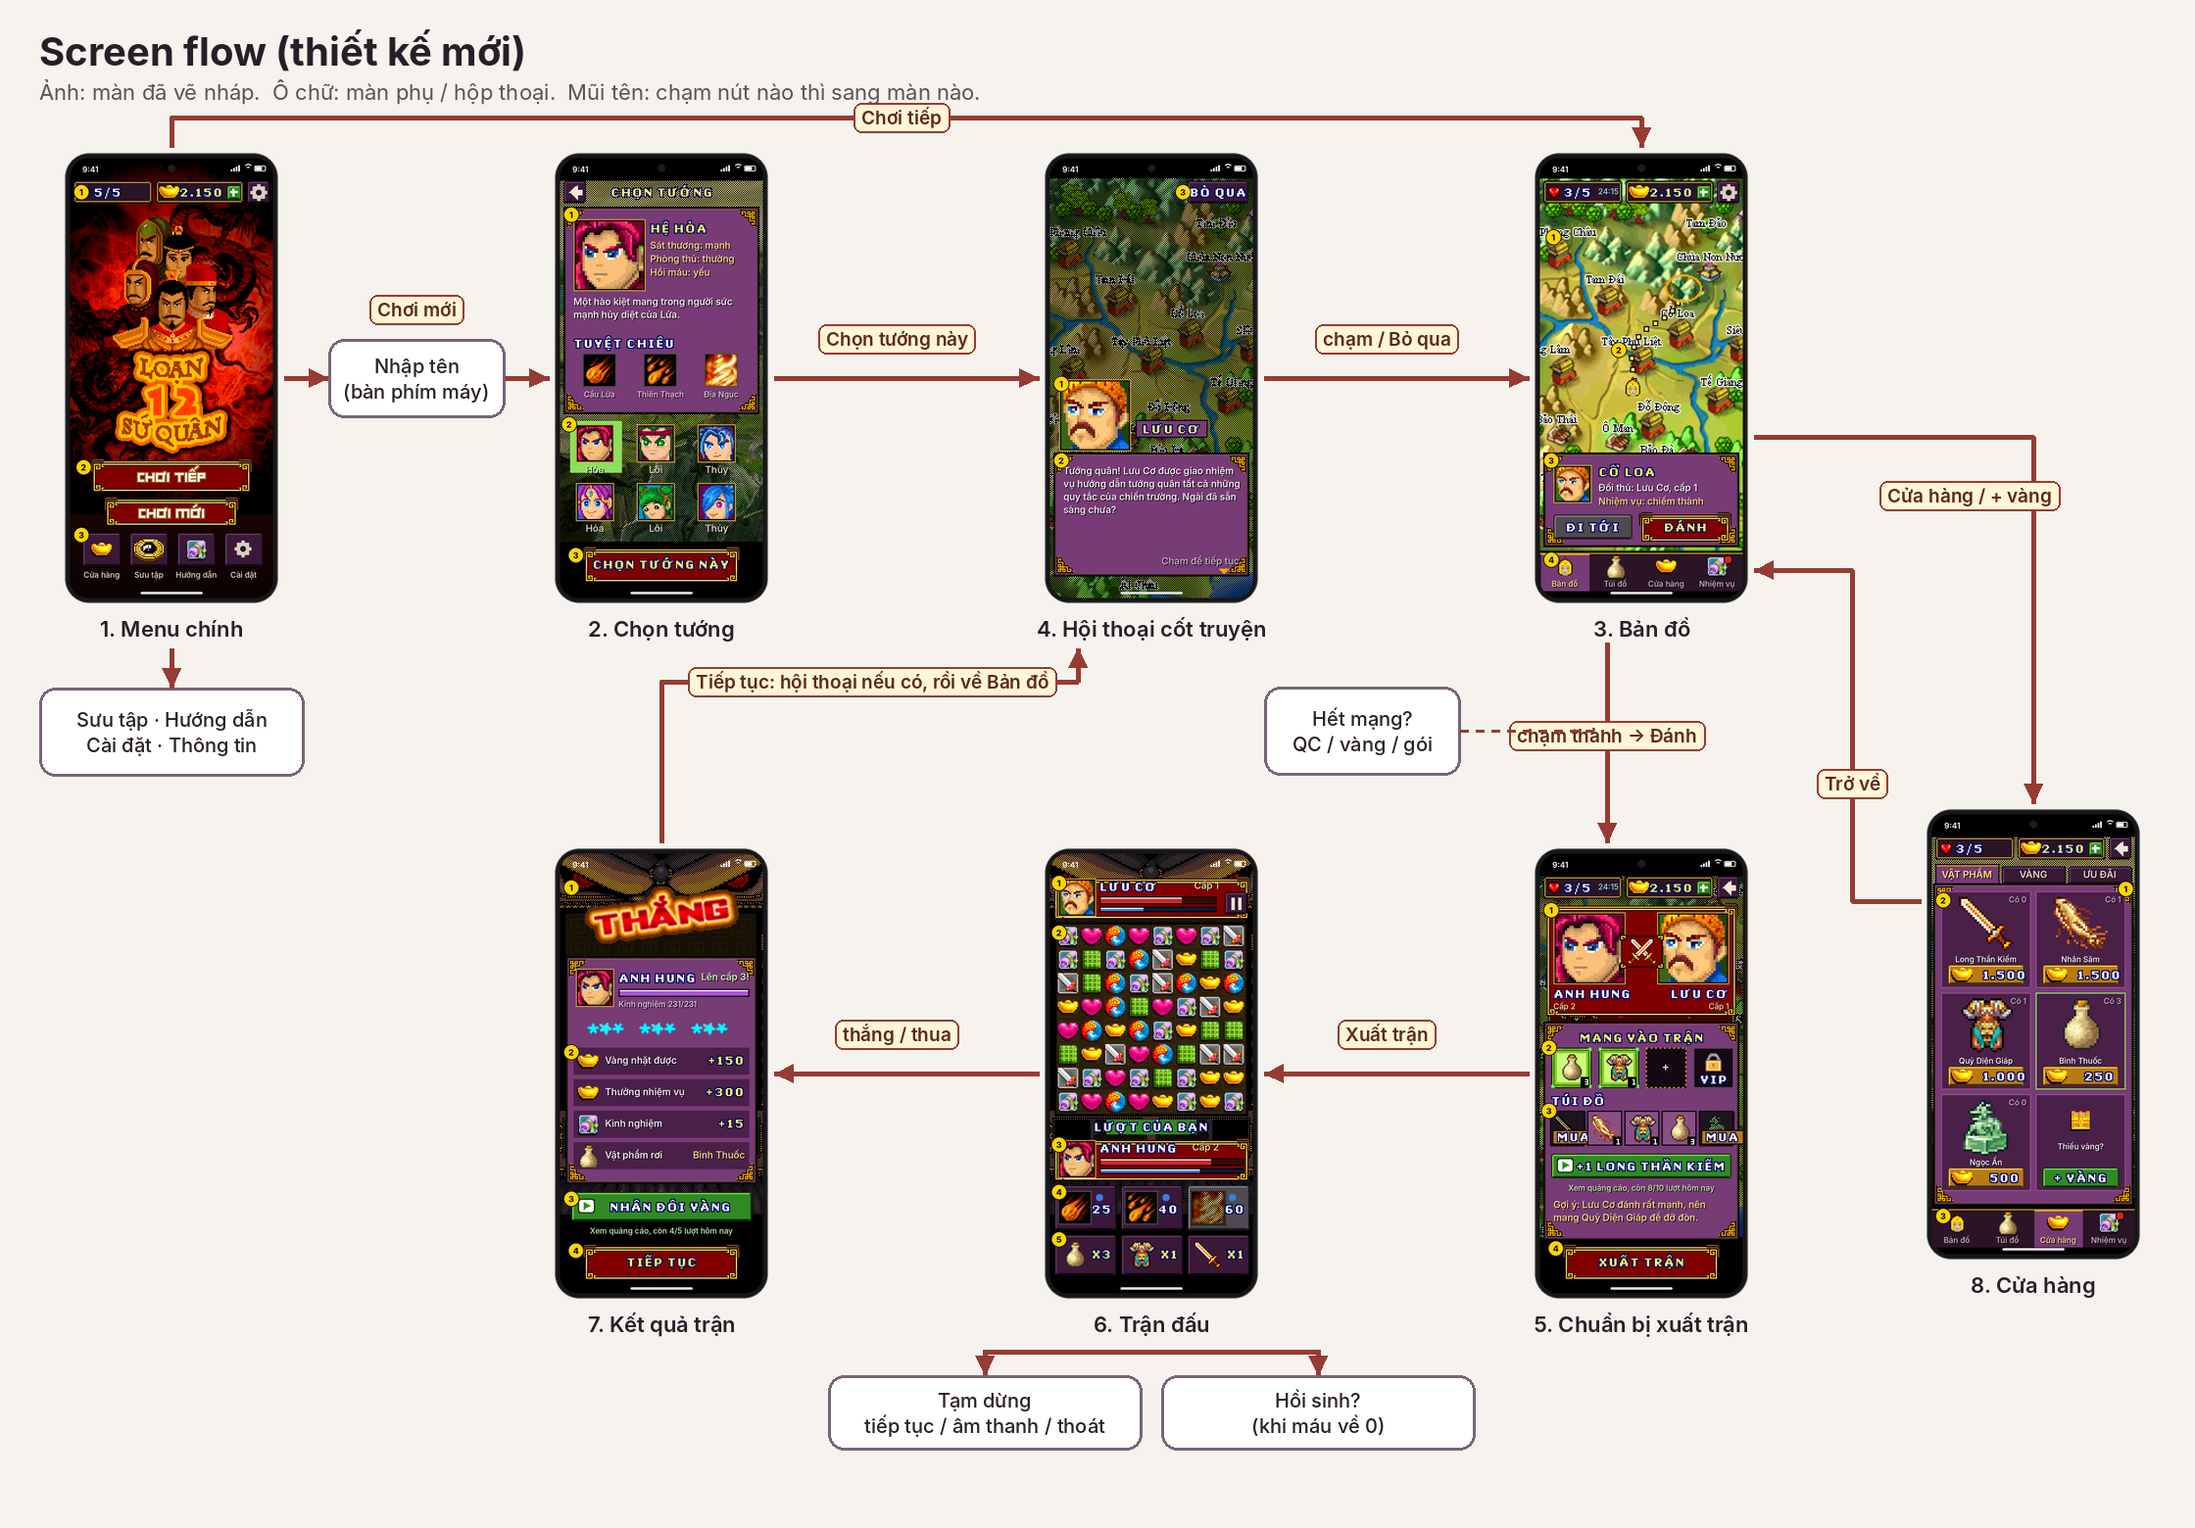
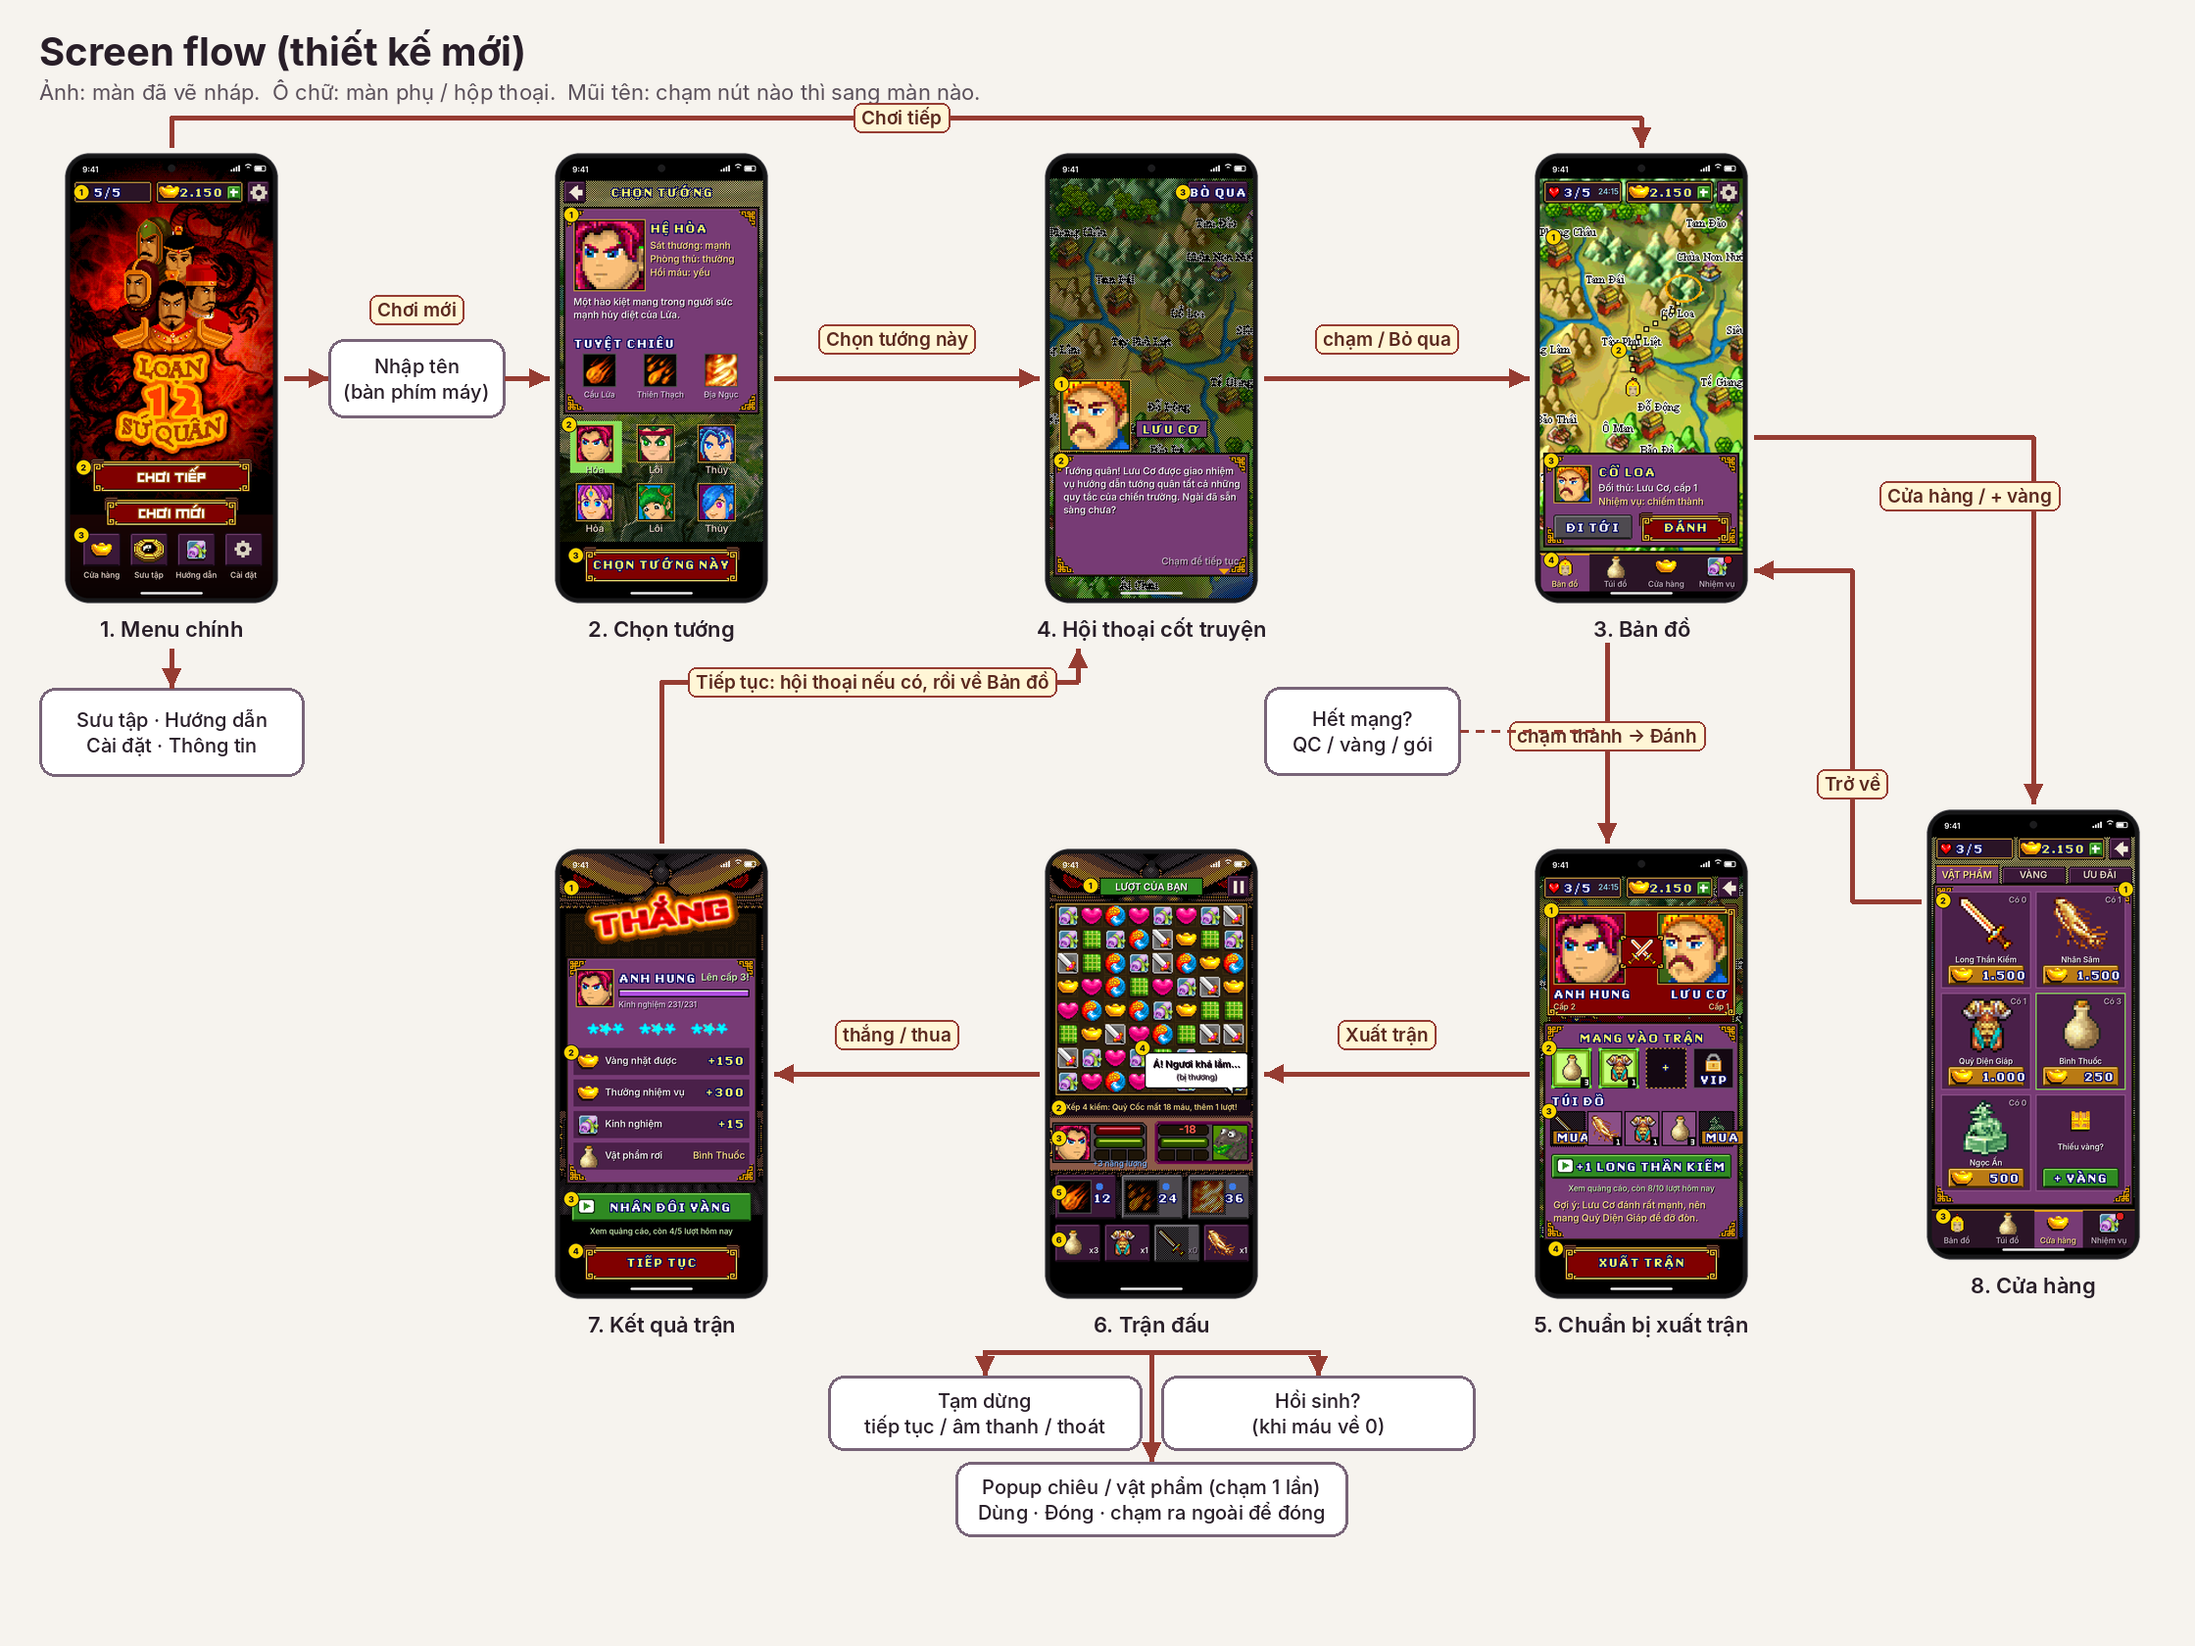
Plan: sửa thiết kế màn trận đấu theo góp ý
- Tướng địch bên phải; giữ nguyên khung tướng và 3 thanh máu / thời gian / năng lượng gốc
- Dòng mô tả hiệu ứng + số bay lên (bị đánh, năng lượng, vật phẩm), biểu tượng hiệu ứng còn lượt
- Chạm 1 lần vào chiêu / vật phẩm: popup mô tả, nút Dùng / Đóng, chạm ra ngoài để đóng
- Bong bóng chat khi bị thương, thể hiện cảm xúc, đối thoại; bảng quy tắc
- Thêm 3 màn nháp (06b, 06c, 06d), cập nhật ảnh tổng quan và screen flow
- Chưa sửa code

Claude-Session: https://claude.ai/code/session_01DP7PE6DYPEShtoNe64J9yw

Changed region(s): [[0.0, 0.0, 0.9375, 0.9538], [0.8125, 0.4615, 1.0, 0.8615], [0.5625, 0.4308, 0.6562, 0.4923]]

diff --git a/plan/thiet-ke-giao-dien.md b/plan/thiet-ke-giao-dien.md
@@ -96,18 +96,71 @@ Số trong vòng tròn vàng trên ảnh ứng với các ghi chú bên dưới 
 
 **Trước:** hộp đối đầu nhỏ đè lên bản đồ, phím mềm "Đánh / Rút lui".
 
-### 6. Trận đấu
+### 6. Trận đấu (đã sửa theo góp ý)
+
+Thay đổi so với bản trước:
+- tướng địch ở **bên phải**;
+- thanh máu, thời gian và năng lượng **giữ đúng như game gốc**;
+- có **chữ mô tả hiệu ứng**;
+- chạm 1 lần vào chiêu hoặc vật phẩm thì hiện **popup**;
+- nhân vật **nói bằng bong bóng chat**.
+
 <img src="ui/06_tran-dau.png" width="300" alt="Trận đấu">
 
-1. **Đối thủ ở trên cùng:** máu, năng lượng, nút tạm dừng.
-2. **Bàn cờ rộng khoảng 93% chiều ngang.** Chạm hoặc vuốt để đổi ô (đã có trong bản port).
-3. **Người chơi** nằm ngay dưới bàn cờ; dòng "Lượt của bạn" báo đến lượt.
-4. **Hàng tuyệt chiêu:** biểu tượng kèm số năng lượng cần. Chiêu chưa đủ năng lượng thì mờ đi.
-5. **Hàng vật phẩm** đã chọn trước trận, chạm một lần là dùng.
+1. **Dòng trên cùng:** báo lượt ("Lượt của bạn" màu xanh / "Lượt đối thủ" màu đỏ) và nút tạm dừng.
+2. **Dòng hiệu ứng** ngay dưới bàn cờ, mô tả việc vừa xảy ra. Ví dụ:
+   - "Xếp 4 kiếm: Quỷ Cốc mất 18 máu, thêm 1 lượt!";
+   - "Quỷ Diện Giáp chặn 3/4".
+3. **Hai khung tướng giữ nguyên bản gốc:** người chơi bên trái, tướng địch bên phải, mỗi bên có 3 thanh như game cũ:
+   - đỏ: máu;
+   - xanh lá: thời gian (lương thực, cạn là thua);
+   - 3 ô: năng lượng.
+
+   **Số bay lên** ngay tại thanh tương ứng: "-18" màu đỏ khi bị đánh, "+3 năng lượng" màu xanh dương, "+11 máu" màu xanh lá khi hồi máu.
+4. **Bong bóng chat** của nhân vật (xem quy tắc bên dưới).
+5. **Hàng tuyệt chiêu:** biểu tượng và số năng lượng cần. Chiêu chưa đủ năng lượng thì mờ.
+6. **Hàng vật phẩm:** biểu tượng và số lượng còn lại.
+
+<img src="ui/06b_tran-dau-popup-chieu.png" width="300" alt="Popup tuyệt chiêu">
+
+**6b. Chạm 1 lần vào chiêu** thì hiện popup ngay trên nút đó, có mũi nhọn chỉ vào nút.
+1. Tên, biểu tượng lớn, hệ, năng lượng cần và năng lượng đang có.
+2. Mô tả lấy từ game, có điền sẵn sát thương thật (ví dụ "lực sát thương bằng 7").
+3. Nút **DÙNG** và **ĐÓNG**. Nếu chưa đủ năng lượng thì "Dùng" mờ đi, kèm dòng "Cần thêm … năng lượng".
+4. **Chạm ra ngoài** popup để đóng.
+
+<img src="ui/06c_tran-dau-popup-vat-pham.png" width="300" alt="Popup vật phẩm">
+
+**6c. Chạm 1 lần vào vật phẩm**, hoạt động giống popup chiêu.
+1. Tên, hình, số còn lại, giới hạn ("Mỗi lượt dùng 1 vật phẩm"). Mô tả có số cụ thể, ví dụ "+11 máu".
+2. Nút **DÙNG** và **ĐÓNG**.
+3. Chạm ra ngoài để đóng.
+
+<img src="ui/06d_tran-dau-luot-dich.png" width="300" alt="Lượt đối thủ">
+
+**6d. Lượt đối thủ**
+1. Dòng hiệu ứng mô tả đòn của địch và vật phẩm đã chặn đòn.
+2. **Biểu tượng hiệu ứng đang có** trên chân dung, kèm số lượt còn lại. Ví dụ: khiên Quỷ Diện Giáp còn 2 lượt.
+3. Tướng của người chơi nói một câu thể hiện cảm xúc.
+
+**Quy tắc bong bóng chat:**
+
+| Khi nào | Ai nói | Ví dụ |
+|---|---|---|
+| Đầu trận | Tướng địch, rồi người chơi | Lấy câu thoại theo nhiệm vụ có sẵn trong game, ví dụ "Nguyễn Siêu, chạy đâu cho thoát. Nạp mạng !!" |
+| Bị đánh mạnh (mất từ 15% máu trở lên một lần) | Bên bị đánh | "Á! Ngươi khá lắm..." |
+| Chặn được đòn, hồi máu, dùng tuyệt chiêu | Bên vừa làm | "Hừ! Chẳng nhằm nhò gì." / "Nếm thử Quả Cầu Lửa!" |
+| Máu dưới 20% | Bên sắp thua | "Không lẽ ta thua ở đây sao..." |
+| Thắng / thua | Cả hai | Câu kết lấy từ thoại nhiệm vụ của game, nếu có |
+
+- Mỗi bong bóng hiện khoảng 2 giây, chạm vào thì tắt ngay. Mỗi lúc chỉ hiện một bong bóng.
+- Bong bóng **không che** nút bấm và **không chặn** thao tác trên bàn cờ.
+- Câu thoại cảm xúc là phần viết thêm. Cần một bảng câu cho từng loại tướng (hảo hán, sơn tặc, yêu quái…).
 
 **Trước:**
 - bàn cờ chỉ chiếm khoảng 70% chiều ngang, phần còn lại là khung trang trí;
-- tuyệt chiêu và túi đồ phải mở qua phím mềm và menu.
+- tuyệt chiêu và túi đồ phải mở qua phím mềm và một hộp chọn riêng;
+- không có chữ mô tả hiệu ứng.
 
 ### 7. Kết quả trận
 <img src="ui/07_ket-qua.png" width="300" alt="Kết quả trận">
@@ -155,6 +208,8 @@ flowchart TD
     LIVES --> PREP
     PREP -->|Xuất trận| BATTLE[6. Trận đấu]
     PREP -->|Quay lại| MAP
+    BATTLE -->|chạm 1 lần vào chiêu / vật phẩm| POP[Popup mô tả<br/>Dùng / Đóng / chạm ra ngoài]
+    POP -->|Dùng / Đóng| BATTLE
     BATTLE -->|nút tạm dừng| PAUSE[Tạm dừng<br/>tiếp tục / âm thanh / thoát]
     PAUSE -->|Tiếp tục| BATTLE
     PAUSE -->|Thoát trận| MAP
